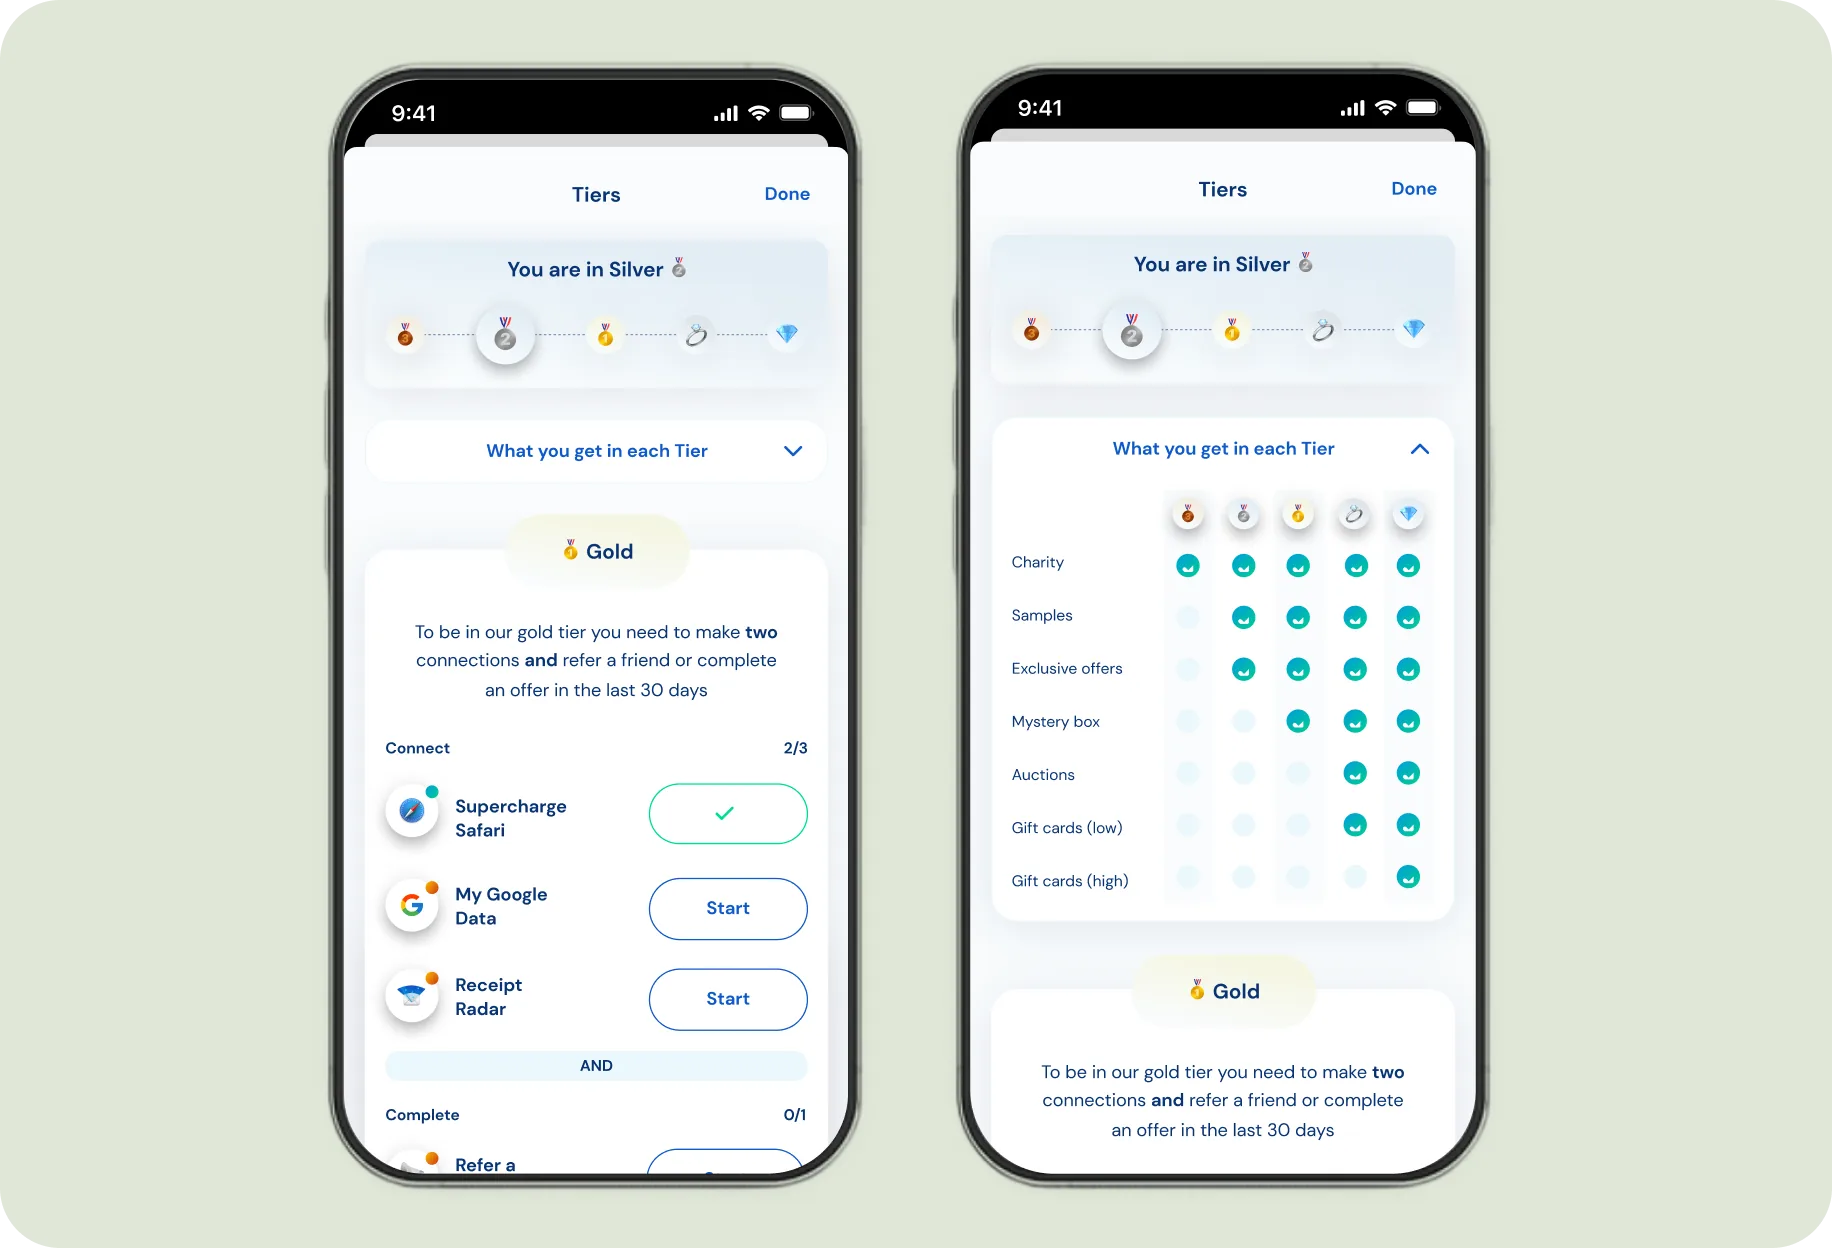
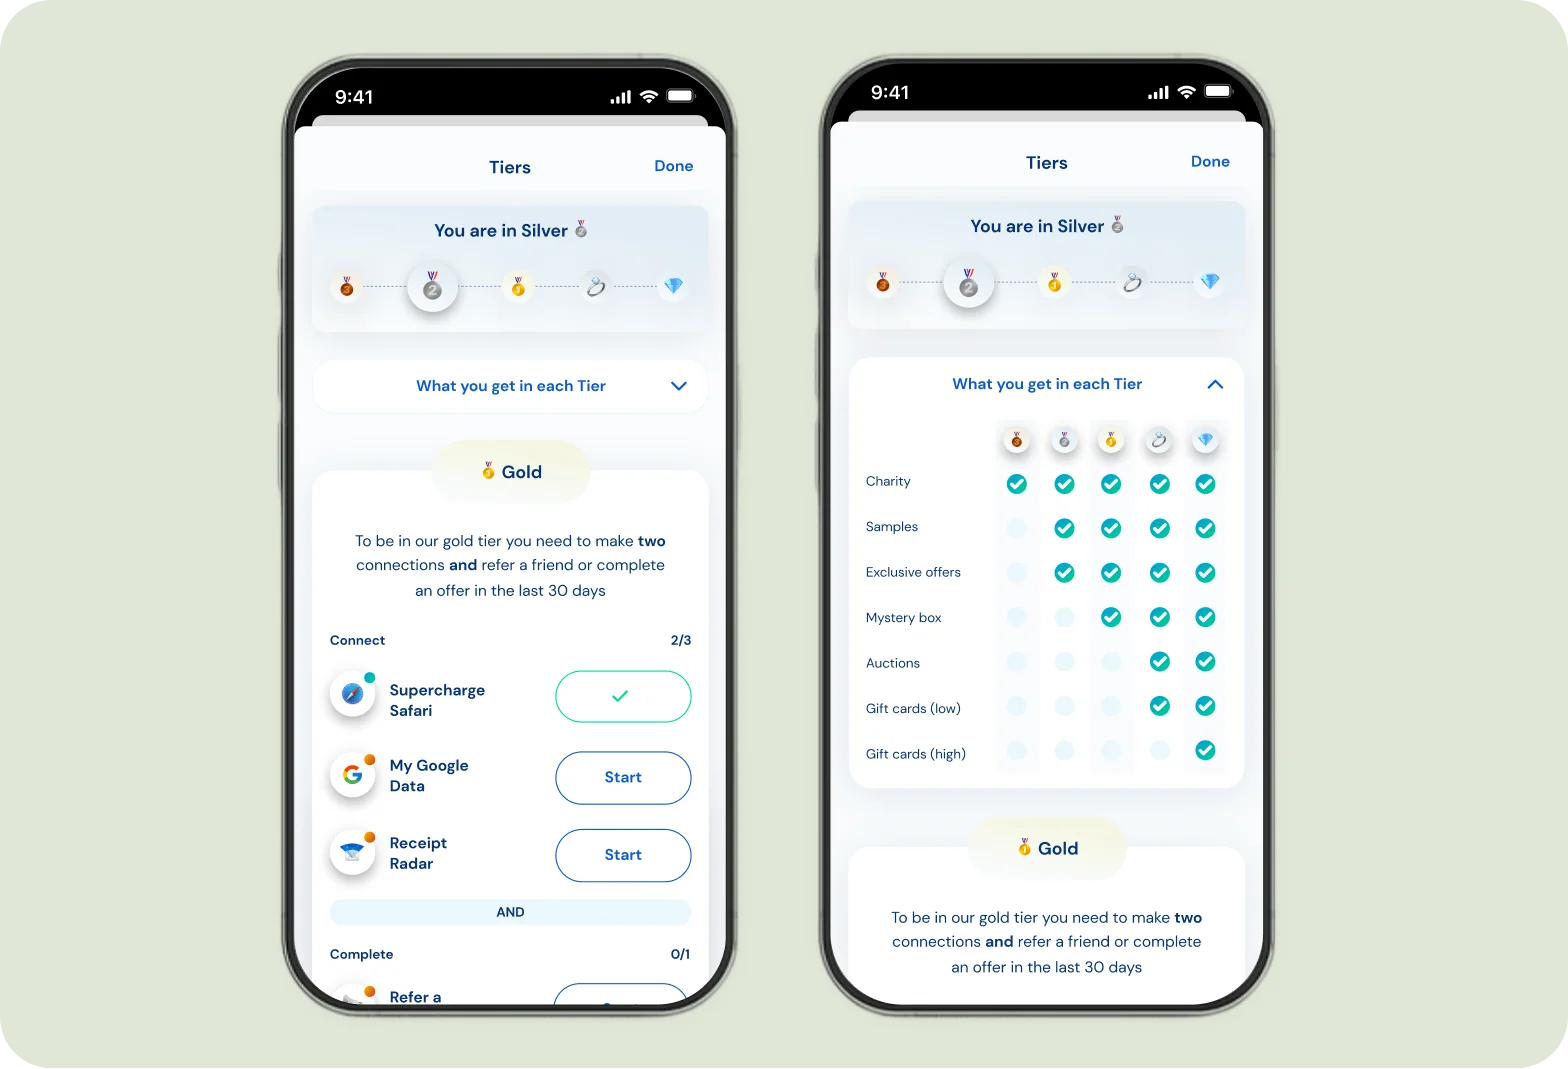
Polish the Gener8 case studies: light green behind the Tiers hero, a light grey panel behind the Labs wireframes, and a fresh Tiers export with the ticks centred in their circles.

diff --git a/project-gener8.html b/project-gener8.html
@@ -20,7 +20,7 @@
     <meta name="description" content="How I designed Gener8 Tiers, a gamified rewards system that encouraged people to connect more data and come back to the Gener8 mobile app more often.">
     <link rel="canonical" href="https://www.sharirobertshaw.com/project-gener8.html">
     <link rel="stylesheet" href="styles.css?v=57">
-    <link rel="stylesheet" href="project-styles.css?v=51">
+    <link rel="stylesheet" href="project-styles.css?v=55">
     <link rel="preconnect" href="https://fonts.googleapis.com">
     <link rel="preconnect" href="https://fonts.gstatic.com" crossorigin>
     <link href="https://fonts.googleapis.com/css2?family=Instrument+Sans:wght@400;500;600&family=Geist+Mono:wght@400;500&display=swap" rel="stylesheet">
@@ -67,7 +67,7 @@
 
                 <section class="case-study-band case-study-band--media scroll-fade">
                     <div class="case-study-flow">
-                        <img src="images/tiers1.webp" alt="Two Gener8 Tiers screens: progress from Bronze to Diamond with the steps to reach Gold, and a table of the rewards unlocked in each tier">
+                        <img src="images/tiers1.webp?v=2" alt="Two Gener8 Tiers screens: progress from Bronze to Diamond with the steps to reach Gold, and a table of the rewards unlocked in each tier">
                     </div>
                 </section>
 

diff --git a/project-gener8labs.html b/project-gener8labs.html
@@ -20,7 +20,7 @@
     <meta name="description" content="Website design and Webflow build for Gener8 Labs, a B2B consumer data company, turning a complex data product into a clear, trustworthy marketing story.">
     <link rel="canonical" href="https://www.sharirobertshaw.com/project-gener8labs.html">
     <link rel="stylesheet" href="styles.css?v=57">
-    <link rel="stylesheet" href="project-styles.css?v=51">
+    <link rel="stylesheet" href="project-styles.css?v=55">
     <link rel="preconnect" href="https://fonts.googleapis.com">
     <link rel="preconnect" href="https://fonts.gstatic.com" crossorigin>
     <link href="https://fonts.googleapis.com/css2?family=Instrument+Sans:wght@400;500;600&family=Geist+Mono:wght@400;500&display=swap" rel="stylesheet">
@@ -92,7 +92,7 @@
                 </section>
 
                 <section class="case-study-band case-study-band--media scroll-fade">
-                    <div class="case-study-flow">
+                    <div class="case-study-flow case-study-flow--grey">
                         <img src="images/gener8labs-wireframe.webp" alt="Four Gener8 Labs page wireframes: the homepage, Data Collection, Data Feeds and Surveys">
                     </div>
                 </section>

diff --git a/project-styles.css b/project-styles.css
@@ -22,7 +22,8 @@
     align-items: center;
     justify-content: center;
     box-sizing: border-box;
-    background: transparent;
+    /* Same light green as the Gener8 card on the home page */
+    background: #e0e7d8;
     padding: 56px;
 }
 
@@ -1031,6 +1032,19 @@
 
 .muchi-judgment-divider {
     background: var(--rule);
+}
+
+/* Light grey panel for images designed on white, like wireframes */
+.case-study-flow--grey {
+    background: #f2f2f2;
+    border-radius: 16px;
+    padding: 48px 40px;
+}
+
+@media (max-width: 768px) {
+    .case-study-flow--grey {
+        padding: 24px 16px;
+    }
 }
 
 .case-study-flow--light {
